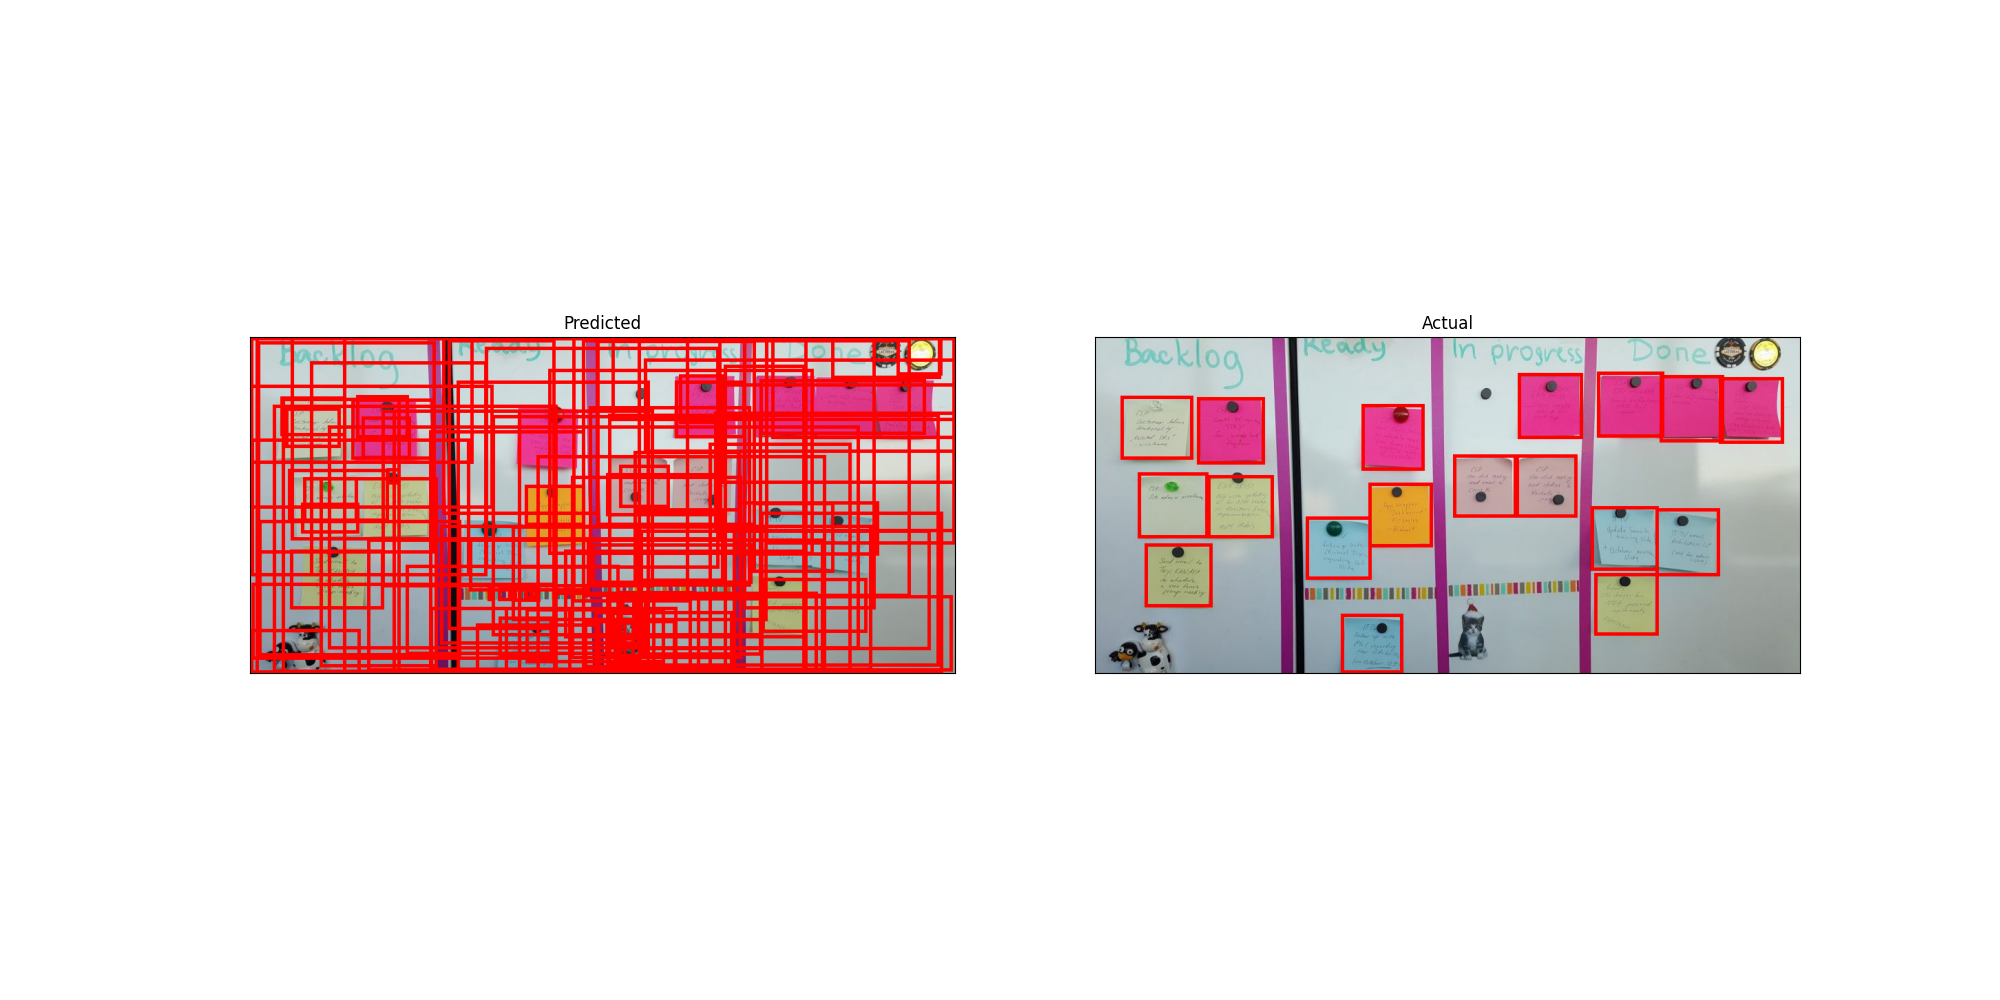
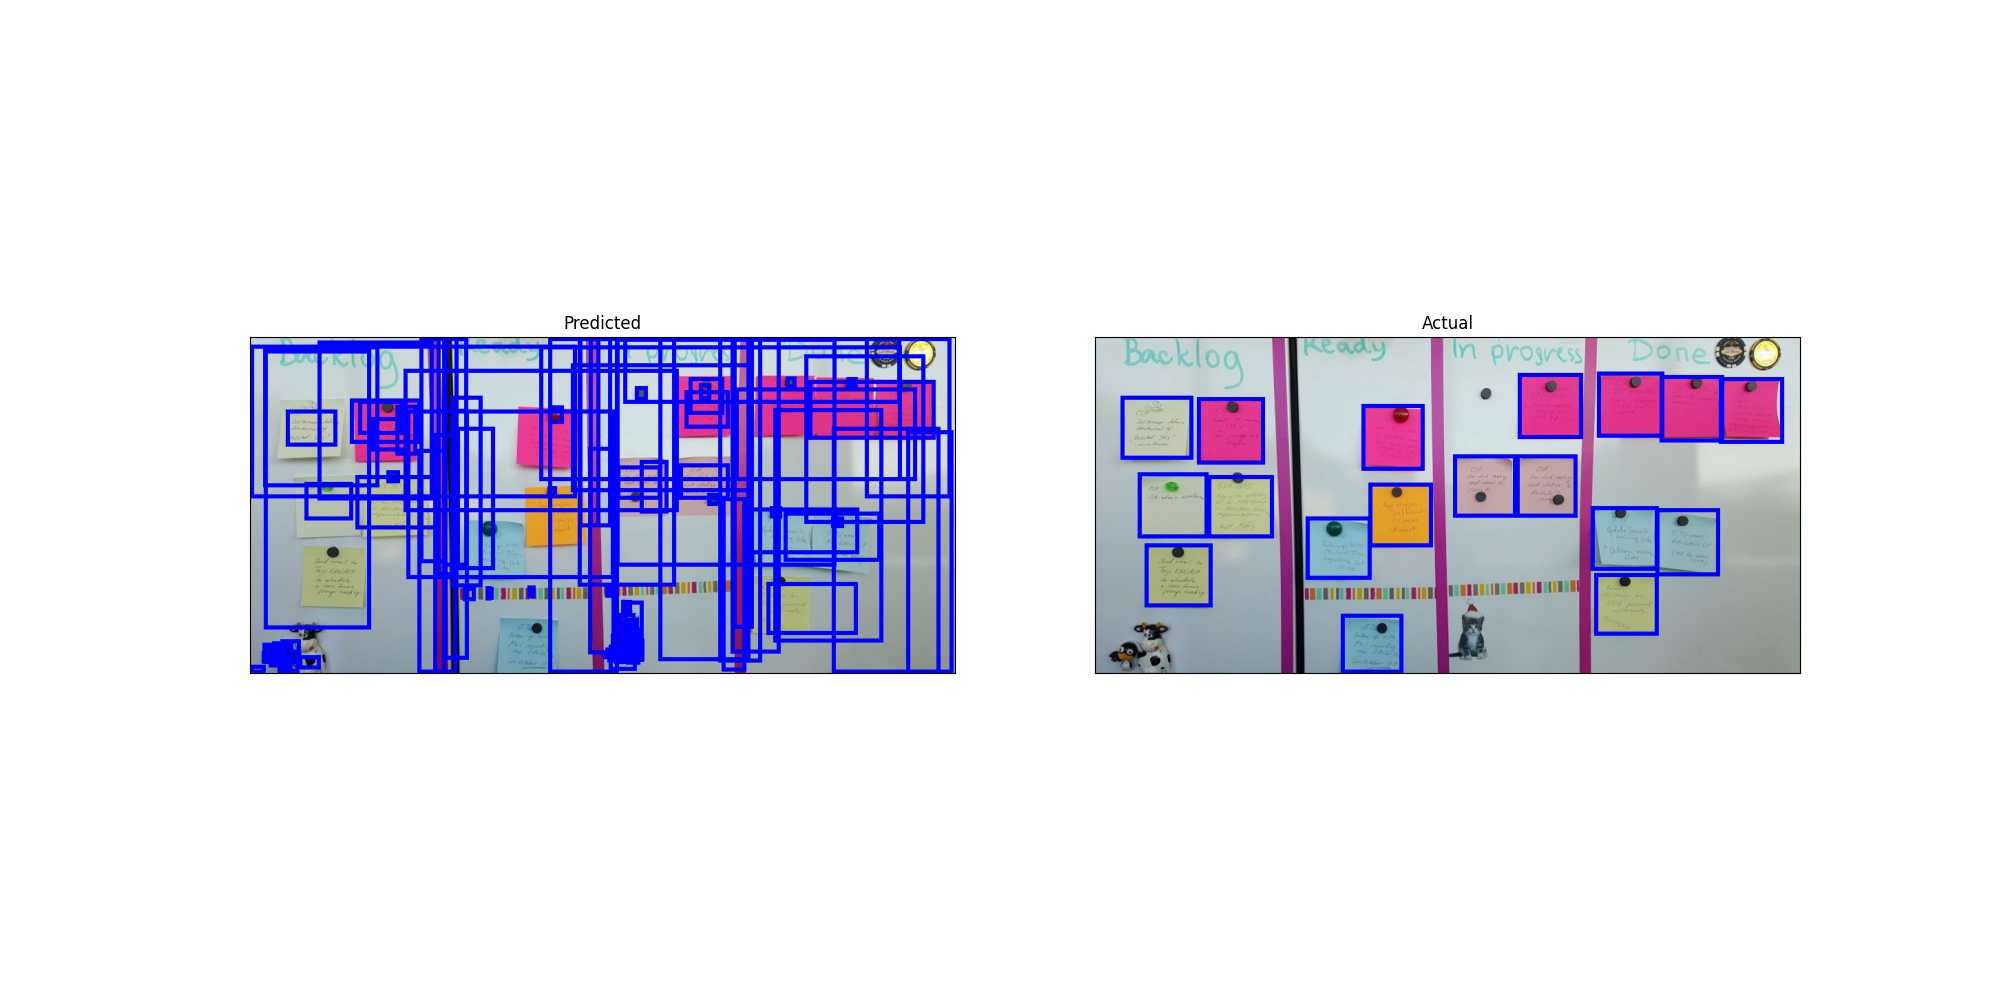
Vectorize some stuff

diff --git a/segment.py b/segment.py
@@ -38,8 +38,8 @@ def main():
     model.to(device)
     model.train()
     params = [p for p in model.parameters() if p.requires_grad]
-    optimizer = torch.optim.Adam(params=params, lr=0.0001)
-    num_epochs = 10
+    optimizer = torch.optim.Adam(params=params, lr=1e-4)
+    num_epochs = 12
     for epoch in range(num_epochs):
         print(f"Epoch {epoch}")
         for images, targets in data_loader:
@@ -76,13 +76,10 @@ def visualise(model, dir="validation", path="results"):
 def plot_bb(image, target, ax):
     boxes = target['boxes']
     boxes = boxes.cpu().to(torch.int32)
-    for b in boxes:
-        if b[0] > b[2]:
-            b[0] = b[2] - 1
-        if b[1] > b[3]:
-            b[1] = b[3] - 1
+    boxes[:, 0] = torch.min(boxes[:, 0], boxes[:, 2] - 1)
+    boxes[:, 1] = torch.min(boxes[:, 1], boxes[:, 3] - 1)
     img = (image.cpu() * 255).to(dtype = torch.uint8)
-    bb = draw_bounding_boxes(img, boxes, colors="red", width=5)
+    bb = draw_bounding_boxes(img, boxes, colors="blue", width=6)
     ax.imshow(bb.permute(1, 2, 0))
     ax.set_xticks([])
     ax.set_yticks([])
